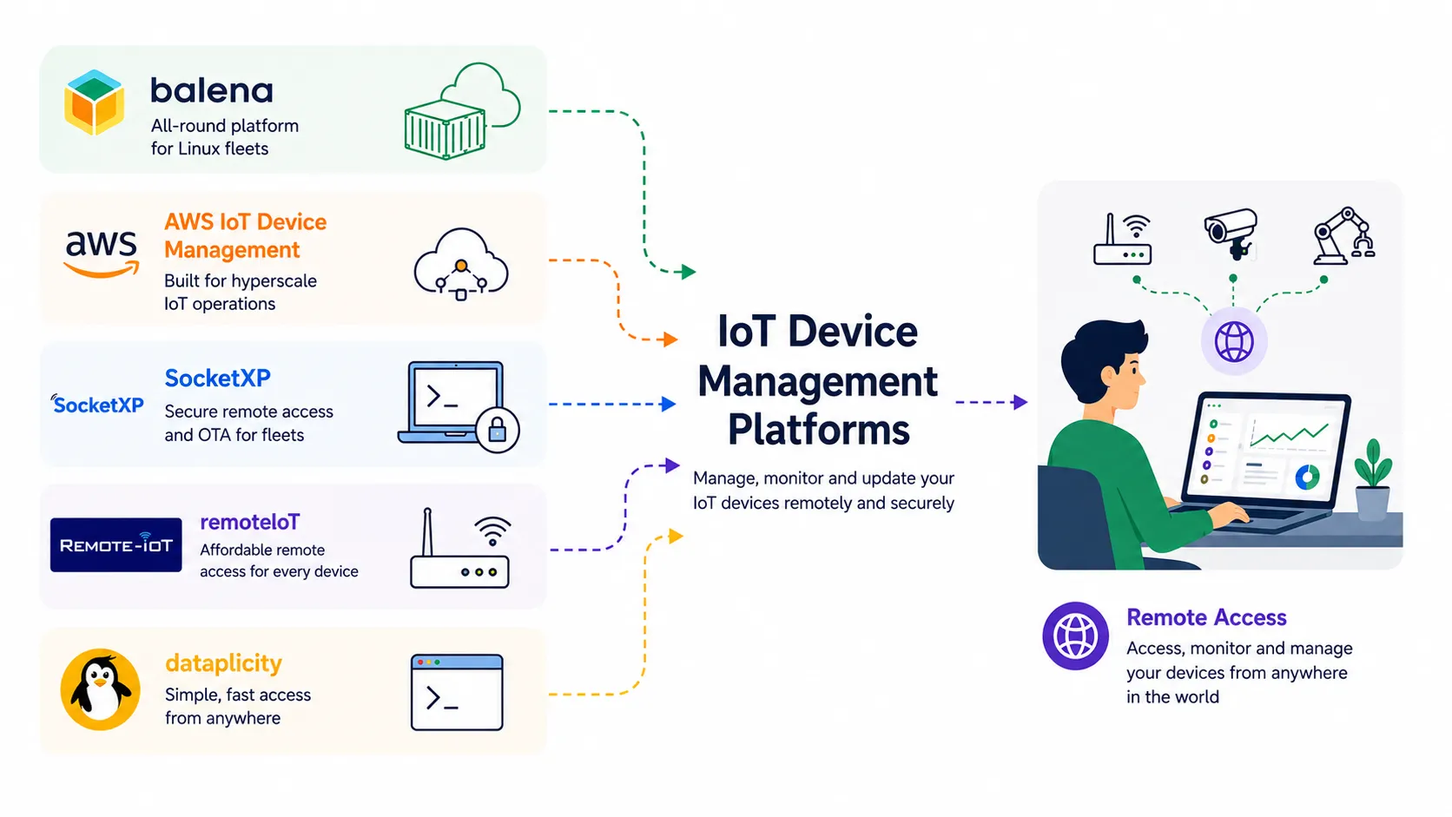
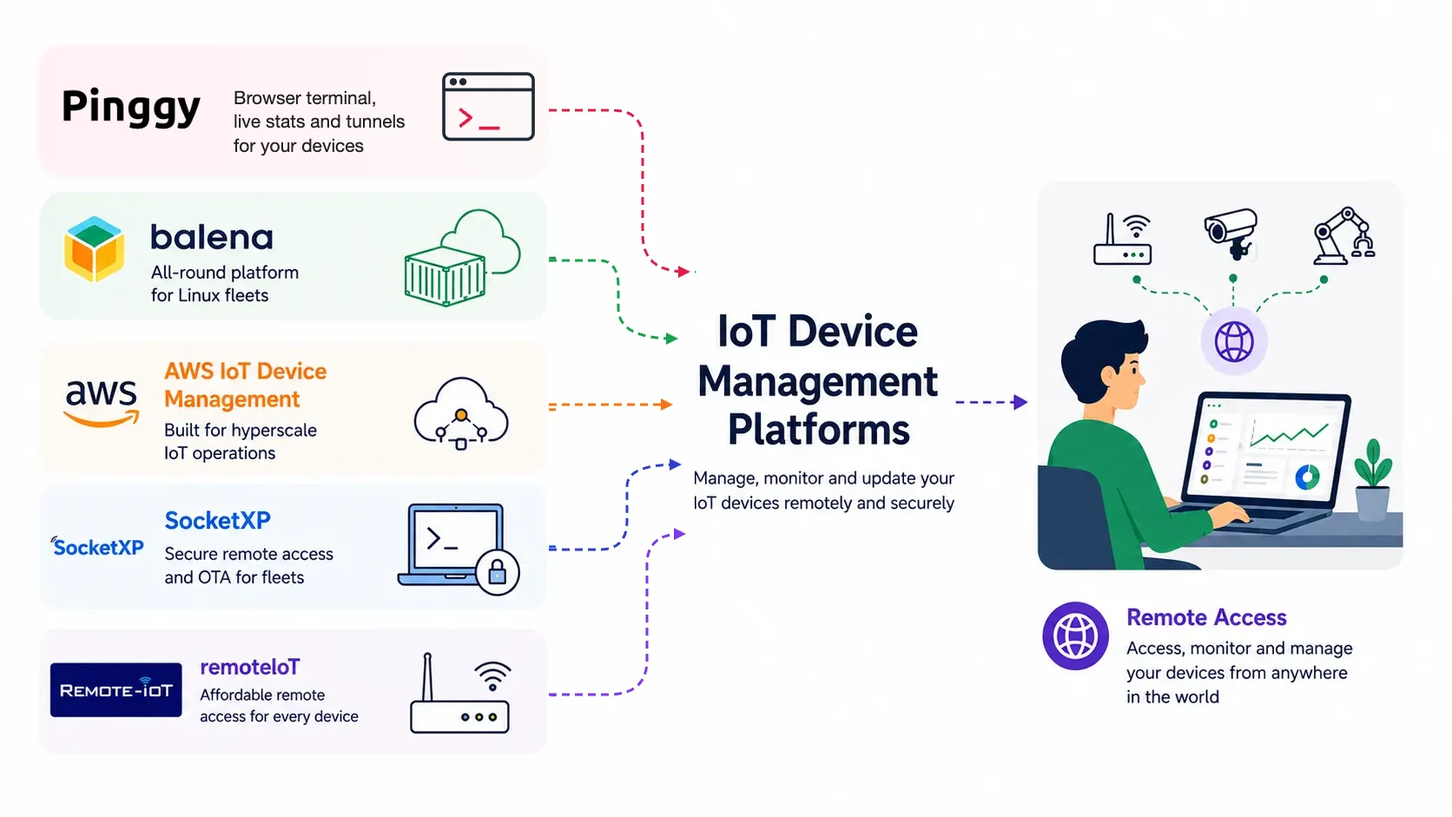
Refactor code structure for improved readability and maintainability

diff --git a/content/blog/best_remote_iot_device_management_software.md b/content/blog/best_remote_iot_device_management_software.md
@@ -1,39 +1,40 @@
 ---
-title: "Best Remote IoT Device Management Software in 2026: 5 Platforms Compared"
-description: "A technical comparison of remote IoT device management software in 2026: balenaCloud, AWS IoT Device Management, SocketXP, RemoteIoT and Dataplicity. Real pricing, agent architecture, NAT traversal, OTA updates and what each one gets wrong."
+title: "Best Remote IoT Device Management Software in 2026: 6 Platforms Compared"
+description: "A technical comparison of remote IoT device management software in 2026: Pinggy Devices, balenaCloud, AWS IoT Device Management, SocketXP, RemoteIoT and Dataplicity. Real pricing, agent architecture, NAT traversal, OTA updates and what each one gets wrong."
 date: 2026-08-13T07:30:00+05:30
-lastmod: 2026-08-24T07:30:00+05:30
+lastmod: 2026-11-11T07:30:00+05:30
 draft: false
 tags: ["IoT", "device management", "remote access", "Raspberry Pi", "edge computing", "OTA updates", "balenaCloud", "AWS IoT", "SocketXP", "RemoteIoT", "Dataplicity", "comparison"]
 categories: ["IoT", "Remote Access", "Comparison"]
 og_image: "images/best_remote_iot_device_management_software/best_remote_iot_device_management_software_banner.webp"
[2 lines of base64/hex data omitted]
 outputs:
   - HTML
   - AMP
 ---
 
-{{< image "best_remote_iot_device_management_software/best_remote_iot_device_management_software_banner.webp" "Best Remote IoT Device Management Software in 2026" >}}
+{{< image "best_remote_iot_device_management_software/best_remote_iot_device_management_software_banner.webp" "Best Remote IoT Device Management Software in 2026: Pinggy, balenaCloud, AWS IoT Device Management, SocketXP and RemoteIoT" >}}
 
 Managing a fleet of IoT devices such as Raspberry Pis and other single-board computers is not easy, especially once they are out in the wild: behind CGNAT, on cellular data, inside someone else's home network. Easy remote access and management is essential once you can no longer just walk over and plug in a keyboard.
 
-That's the gap this guide is about. The same 100 Raspberry Pis cost $20 a month to manage on RemoteIoT and $409 on balenaCloud, and that gap is not a markup, it's two different products: the cheap half is **access** (a shell or VNC session on a device you can't route to), the expensive half is **lifecycle** (a device registry, atomic updates with rollback, fleet-wide config, audit logs). Buying the wrong half is what actually costs money.
+That's the gap this guide is about. The same 100 Raspberry Pis cost $10 a month to manage on Pinggy Devices and $409 on balenaCloud, and that gap is not a markup, it's two different products: the cheap half is **access** (a shell or VNC session on a device you can't route to), the expensive half is **lifecycle** (a device registry, atomic updates with rollback, fleet-wide config, audit logs). Buying the wrong half is what actually costs money.
 
-This guide compares balenaCloud, SocketXP, RemoteIoT, Dataplicity and AWS IoT Device Management on what decides that call: how the agent crosses NAT, whether updates are atomic, and what the bill looks like at real fleet sizes. Every price and feature here came from the vendor's own pages, checked in August 2026.
+This guide compares Pinggy Devices, balenaCloud, SocketXP, RemoteIoT, Dataplicity and AWS IoT Device Management on what decides that call: how the agent crosses NAT, whether updates are atomic, and what the bill looks like at real fleet sizes. Every price and feature here came from the vendor's own pages and docs, checked in August 2026, and for Pinggy Devices on November 12, 2026.
 
 {{% tldr %}}
 
-**Top 5 remote IoT device management platforms in 2026:**
+**Top 6 remote IoT device management platforms in 2026:**
 
-1. **<a href="https://www.balena.io/cloud" target="_blank">balenaCloud</a>** - Containers on balenaOS, delta updates, 100+ boards. Free for 10 devices, then $159/month.
-2. **<a href="https://www.socketxp.com/" target="_blank">SocketXP</a>** - Static agent, mTLS, no inbound ports. $20/month (40 devices) or $99/month (100 devices).
-3. **<a href="https://remoteiot.com/" target="_blank">RemoteIoT</a>** - Cheapest per device. $0.20 to $1.00 per device/month, free for 5 non-commercial.
-4. **<a href="https://www.dataplicity.com/" target="_blank">Dataplicity</a>** - Bare Pi to browser terminal in one command. 1 free device, then $3.00/device/month.
-5. **<a href="https://aws.amazon.com/iot-device-management/" target="_blank">AWS IoT Device Management</a>** - Jobs, fleet indexing, secure tunneling. Pay per use: $0.003/action, $1.00/tunnel.
+1. **[Pinggy Devices](/remote-terminal/)** - Browser terminal, live CPU and memory, and tunnel control over one outbound connection. Free for 1 device, then $2.50 per seat/month (25 devices per seat).
+2. **<a href="https://www.balena.io/cloud" target="_blank">balenaCloud</a>** - Containers on balenaOS, delta updates, 100+ boards. Free for 10 devices, then $159/month.
+3. **<a href="https://www.socketxp.com/" target="_blank">SocketXP</a>** - Static agent, mTLS, no inbound ports. $20/month (40 devices) or $99/month (100 devices).
+4. **<a href="https://remoteiot.com/" target="_blank">RemoteIoT</a>** - Per-device pricing with SSH and VNC. $0.20 to $1.00 per device/month, free for 5 non-commercial.
+5. **<a href="https://www.dataplicity.com/" target="_blank">Dataplicity</a>** - Bare Pi to browser terminal in one command. 1 free device, then $3.00/device/month.
+6. **<a href="https://aws.amazon.com/iot-device-management/" target="_blank">AWS IoT Device Management</a>** - Jobs, fleet indexing, secure tunneling. Pay per use: $0.003/action, $1.00/tunnel.
 
 **Also worth a look:** <a href="https://qbee.io/" target="_blank">qbee.io</a>, <a href="https://thingsboard.io/" target="_blank">ThingsBoard</a>, <a href="https://memfault.com/" target="_blank">Memfault</a>, <a href="https://mender.io/" target="_blank">Mender</a>.
 
-**Short version:** deploying containers, use balenaCloud. Only need a shell, the access tools cost a tenth as much. Huge fleet already on AWS, use AWS IoT.
+**Short version:** need a shell, live metrics and tunnels on devices behind NAT, use Pinggy Devices. Deploying containers, use balenaCloud. Huge fleet already on AWS, use AWS IoT.
 
 {{% /tldr %}}
 
@@ -66,6 +67,13 @@ One more thing worth weighing before you standardize on anything: Google retired
 </tr>
 </thead>
 <tbody>
+<tr style="background:#e8f5e9;">
+  <td style="border:1px solid #ddd;padding:0.5em;"><strong>Pinggy Devices</strong></td>
+  <td style="border:1px solid #ddd;padding:0.5em;">CLI agent, one outbound connection, browser terminal</td>
+  <td style="border:1px solid #ddd;padding:0.5em;">No</td>
+  <td style="border:1px solid #ddd;padding:0.5em;">1 device, 1 shell</td>
+  <td style="border:1px solid #ddd;padding:0.5em;">$2.50/seat/mo (25 devices), billed annually</td>
+</tr>
 <tr style="background:#e8f5e9;">
   <td style="border:1px solid #ddd;padding:0.5em;"><strong>balenaCloud</strong></td>
   <td style="border:1px solid #ddd;padding:0.5em;">Containers on balenaOS</td>
@@ -104,9 +112,64 @@ One more thing worth weighing before you standardize on anything: Google retired
 </tbody>
 </table>
 
-## The 5 best remote IoT device management platforms in 2026
+## The 6 best remote IoT device management platforms in 2026
 
-### 1. balenaCloud - best all-round for containerized Linux fleets
+### 1. Pinggy Devices - best for a browser shell, live metrics and tunnels on devices behind NAT
+
+{{< image "best_remote_iot_device_management_software/pinggy_devices.webp" "Pinggy Instant Remote Terminals page with the Linux install command curl -fsSL https://pinggy.io/install.sh | sh, noting it needs no sudo and is free for 1 device" >}}
+
+[Pinggy Devices](/docs/devices/) turns the Pinggy CLI into a device agent. You run one command on the device, it signs in, and from then on the agent holds **one outbound connection** to the Pinggy dashboard. Everything else rides on that connection: a terminal in your browser, live CPU and memory, the device's tunnels and an activity log. The device accepts no inbound connection and needs no public IP or SSH server, so a Pi behind a home router, CGNAT or a cellular modem shows up the same way as a server in a rack. This is Pinggy's own blog, so weigh the ranking with that in mind; every limit below comes from teh docs, the pricing page or the CLI source.
+
+Installation is one line on the device:
+
+```bash
+curl -fsSL https://pinggy.io/install.sh | sh
+```
+
+The script needs no `sudo`, installs the CLI to `~/.pinggy/bin`, signs the device in with your email and a 6-digit code (a new email gets a free account) and starts the agent in the background. Typing an email on every unit doesn't scale, so the dashboard also has a token route: **Add device** shows a command with that device's token in it.
+
+{{< image "run_claude_code_remotely_from_any_browser/pinggy_install_script_email_sign_in_terminal.webp" "Terminal running the Pinggy install script: it installs the CLI, asks for an email and a 6-digit code, signs the machine in and prints a dashboard link with a QR code" >}}
+
+*Screenshot: the install script on CLI 0.6.3, where the agent stayed in the terminal; from 0.6.4 it starts in the background. Email, code, link, IDs and the QR code are placeholders.*
+
+```bash
+curl -fsSL https://pinggy.io/install.sh | DEVICE_AGENT_TOKEN=<TOKEN> sh
+```
+
+It asks for no email, no code and no keyboard, so it works in a script, a CI job or a `docker run` without `-t`. The token reaches the CLI in an environment variable, never on a command line, and the CLI removes the variable before it starts anything else. One machine holds one device credential, and the dashboard refuses a second agent using the same one, so a fleet means one device entry and one token per unit. The docs describe no bulk enrolment and no per-device certificates, which matters if you provision thousands of units on a production line.
+
+Surviving a reboot is a seperate step. Since CLI 0.6.5 (November 10, 2026), `pinggy daemon service-install` registers the Pinggy daemon as a systemd user service on Linux, a launchd agent on macOS or a scheduled task on Windows, and the device agent starts with the daemon. On Linux it also runs `loginctl enable-linger` for your user, so the service starts at boot with nobody logged in, which is how most headless Pis run. If that call needs a password it can't ask for, the CLI prints the `loginctl enable-linger <user>` command to run yourself. Without the service, the agent stops at a reboot and `pinggy device connect` brings it back.
+
+The Linux builds are glibc binaries for x64 and arm64, and the installer stops with "unsupported CPU" on anything else. That covers a Pi 3, 4, 5 or Zero 2 W running 64-bit Raspberry Pi OS and most ARM64 gateways on a glibc distro, but not 32-bit Raspberry Pi OS or an original Pi Zero. On Alpine and other musl images, install it with `npm install -g pinggy` instead.
+
+Each device gets four tabs in the dashboard:
+
+- **Overview** shows the hostname, OS, kernel, CPU model and cores, total memory and agent version, next to live CPU, memory, load average and uptime.
+- **Terminal** opens a shell on the device as the user who runs the agent. Closing the browser tab leaves the shell running and redraws the screen when you come back. A shell ends after 30 minutes with no activity or after 8 hours.
+- **Tunnels** lists the tunnels running on the device and the configs saved there with `pinggy config save`. You can start, stop, restart or edit them, or start a new one from a config defined in the dashboard, which is how you reach a Node-RED editor or a camera's web UI on the device.
+- **Activity** lists the device's events with source IP addresses.
+
+{{< image "run_opencode_remotely_from_any_browser/pinggy_device_overview_dark.webp" "Pinggy dashboard device Overview tab in the dark theme, showing the device online, system details including agent version 0.6.4, and live CPU, memory, load average and uptime" >}}
+
+*Screenshot: dashboard.pinggy.io, November 2026. The hostname is a placeholder.*
+
+On security, the device token is stored in `~/.config/pinggy/device.json`, readable only by its user. The agent never logs what you type, and the copy of a shell's screen used to redraw a reopened tab lives in memory only. To cut a device off, delete it or rotate its token in the dashboard; `pinggy device remove` only forgets the token on the device. Anyone signed in to your Pinggy account can open a shell on every device as the user running the agent, so turn on 2-factor authentication and run the agent as an unprivileged user rather than root.
+
+Pricing per the {{< link href="/#prices" newtab=false >}}pricing page{{< /link >}} and the docs on November 12, 2026: **Free** covers 1 device with 1 shell. **Pro** is **$2.50 per seat per month billed annually** or $3.00 billed monthly, and each seat adds 25 devices and 25 open shells, with at most 10 shells on any one device, so 3 seats cover 75 devices. A single Pro seat starts with a 7-day free trial, and Enterprise is custom priced.
+
+What it does not do matters as much. There are **no OTA updates and no rollback**, no fleet-wide configuration or batch jobs (you act on one device at a time from its page), and no alerting in the docs. It is also new: Pinggy Devices shipped in CLI v0.6.2 on November 2, 2026, and the CLI has had five releases since. If you ship firmware, pair it with Mender or another updater from this list.
+
+**Key specs**
+
+- **Device model:** Pinggy CLI as a background agent; glibc binaries for Linux x64 and arm64, macOS and Windows, npm on musl
+- **OTA:** none
+- **Remote access:** browser terminal, plus Pinggy tunnels started, stopped and edited from the dashboard
+- **Monitoring:** live CPU, memory, load and uptime; activity log with source IPs
+- **Provisioning:** email sign-in, or a per-device token with no keyboard; start at boot with `pinggy daemon service-install`
+- **Pricing:** free for 1 device; $2.50 per seat/month billed annually ($3.00 monthly), 25 devices per seat
+- **Weak spot:** no OTA or fleet-wide jobs, no 32-bit ARM builds, and a young product
+
+### 2. balenaCloud - best all-round for containerized Linux fleets
 
 {{< image "best_remote_iot_device_management_software/balenacloud.webp" "balenaCloud container-based IoT fleet management platform" >}}
 
@@ -129,7 +192,7 @@ The catch is cost. The free tier is 10 devices and one user. **Prototype** is $1
 - **Pricing:** free 10 devices; $159/mo (30), $329/mo (60), $1,439/mo (110); extra devices $2 to $3
 - **Weak spot:** price per device, and the container model is a real architectural commitment
 
-### 2. SocketXP - best remote access plus OTA for a mid-size fleet
+### 3. SocketXP - best remote access plus OTA for a mid-size fleet
 
 {{< image "best_remote_iot_device_management_software/socketxp.webp" "SocketXP IoT remote access and device management dashboard" >}}
 
@@ -171,11 +234,11 @@ Watch the data caps. Plans allocate between 100MB and 500MB per device per month
 - **Pricing:** Small Business $20/$39/$79 per month for 40 devices; Enterprise $99/$299/$499/$799 per month for 100 devices; extras $0.30 to $1.99
 - **Weak spot:** per-device data caps of 100MB to 500MB, monitoring and OTA gated behind the $499 Standard plan, no built-in data visualization
 
-### 3. RemoteIoT - cheapest per device for SSH and VNC
+### 4. RemoteIoT - low per-device pricing for SSH and VNC
 
 {{< image "best_remote_iot_device_management_software/remoteiot.webp" "RemoteIoT secure remote IoT access and management platform" >}}
 
-{{< link href="https://remoteiot.com/" >}}RemoteIoT{{< /link >}} is the price leader by a wide margin and is narrower in scope than everything above. It gives you remote SSH and VNC to devices behind firewalls, a browser-based web console, batch jobs across groups of devices, file upload and application update to many devices at once, centralized SSH key management, and monitoring of CPU, memory and disk.
+{{< link href="https://remoteiot.com/" >}}RemoteIoT{{< /link >}} is one of the cheapest options per device and is narrower in scope than balenaCloud or SocketXP. It gives you remote SSH and VNC to devices behind firewalls, a browser-based web console, batch jobs across groups of devices, file upload and application update to many devices at once, centralized SSH key management, and monitoring of CPU, memory and disk.
 
 The setup is a single command with your account's setup key baked in, taken from their documentation:
 
@@ -203,7 +266,7 @@ At 100 devices, Enterprise costs $100/month for capabilities that overlap most o
 - **Pricing:** free for 5 non-commercial devices; $0.20, $0.50, $1.00 and $1.20 per device per month
 - **Weak spot:** JVM dependency, and it is an access tool rather than a full lifecycle platform
 
-### 4. Dataplicity - simplest path from a bare Pi to a browser terminal
+### 5. Dataplicity - simplest path from a bare Pi to a browser terminal
 
 {{< image "best_remote_iot_device_management_software/dataplicity.webp" "Dataplicity remote device management for Linux IoT fleets" >}}
 
@@ -219,7 +282,7 @@ What is less widely known is that Dataplicity is no longer only the hobbyist too
 
 Pricing: **Free** is one device with the remote terminal, Wormhole, port forwarding on standard ports, one dashboard, one display, one monitor, one scheduled task and 24-hour log retention. **Standard** starts at **$3.00 per device per month with a 3 device minimum**, bundling 25 monitors and 25 scheduled tasks with 7-day log retention, still restricted to standard ports. **Business** keeps the $3.00 per device rate through the 1 to 50 device band, steps down on larger bands, and includes 50 monitors, 50 scheduled tasks, 90-day log retention, custom ports, custom Wormhole URLs, alerts, the fleet map, fleet jobs, incidents, on-call escalations, log analytics and the SSO/SCIM security features. Custom quotes are available for larger deployments.
 
-The honest tradeoff: at $3.00 per device Dataplicity is the most expensive per-unit option here. A 100 device fleet lands around $300/month against $100 on RemoteIoT Enterprise, $99 on SocketXP Core and $20 on RemoteIoT Business. You are paying for polish and for the alerting and incident layer. There is also no atomic OTA story, so firmware-heavy products should look elsewhere, and the Python agent means Python has to exist on the image.
+The honest tradeoff: at $3.00 per device Dataplicity is the most expensive per-unit option here. A 100 device fleet lands around $300/month against $100 on RemoteIoT Enterprise, $99 on SocketXP Core, $20 on RemoteIoT Business and $10 on Pinggy Devices Pro. You are paying for polish and for the alerting and incident layer. There is also no atomic OTA story, so firmware-heavy products should look elsewhere, and the Python agent means Python has to exist on the image.
 
 **Key specs**
 
@@ -230,7 +293,7 @@ The honest tradeoff: at $3.00 per device Dataplicity is the most expensive per-u
 - **Pricing:** 1 device free; $3.00/device/month from 3 devices; volume bands and custom quotes above 50
 - **Weak spot:** highest per-device price here, no atomic OTA, Python runtime required on device
 
-### 5. AWS IoT Device Management - best at hyperscale
+### 6. AWS IoT Device Management - best at hyperscale
 
 {{< image "best_remote_iot_device_management_software/aws_iot_device_management.webp" "AWS IoT Device Management product page" >}}
 
@@ -268,6 +331,12 @@ Headline prices are not comparable across these vendors, so here is the same fle
 </tr>
 </thead>
 <tbody>
+<tr style="background:#e8f5e9;">
+  <td style="border:1px solid #ddd;padding:0.5em;"><strong>Pinggy Devices</strong></td>
+  <td style="border:1px solid #ddd;padding:0.5em;">Pro, 4 seats</td>
+  <td style="border:1px solid #ddd;padding:0.5em;"><strong>$10</strong></td>
+  <td style="border:1px solid #ddd;padding:0.5em;">4 x $2.50 per seat billed annually ($12 billed monthly); each seat covers 25 devices and 1 engineer</td>
+</tr>
 <tr style="background:#e8f5e9;">
   <td style="border:1px solid #ddd;padding:0.5em;"><strong>RemoteIoT</strong></td>
   <td style="border:1px solid #ddd;padding:0.5em;">Business</td>
@@ -309,7 +378,7 @@ Headline prices are not comparable across these vendors, so here is the same fle
 
 The AWS row is the one to read carefully, because it is the only usage-based line and it moves fast. One tunnel per device per month is a light support load. Triple it and AWS becomes the most expensive option in the table, while every per-device plan stays flat. Conversely, if your devices are mostly self-sufficient and you rarely open a session, AWS can undercut everything here. Model your own usage before trusting either intuition.
 
-Also worth noting: balenaCloud's price buys a genuine build-and-deploy pipeline, not just access. Comparing it directly against RemoteIoT is comparing a CI/CD and OTA system against a remote shell. The right comparison for balena is qbee.io or Mender.
+Pinggy's $10 buys a browser shell, live metrics and tunnel control on every device, not OTA, so compare it with RemoteIoT and SocketXP Core rather than with balena. Also worth noting: balenaCloud's price buys a genuine build-and-deploy pipeline, not just access. Comparing it directly against RemoteIoT is comparing a CI/CD and OTA system against a remote shell. The right comparison for balena is qbee.io or Mender.
 
 ## Also worth a look
 
@@ -337,14 +406,15 @@ Also worth noting: balenaCloud's price buys a genuine build-and-deploy pipeline,
 
 An IoT device almost never has an inbound-reachable address. It sits behind a home router doing NAT, a corporate firewall that drops unsolicited inbound traffic, or a carrier doing CGNAT. It has to connect to you, not the other way around.
 
-Vendors solve this three ways: an **outbound tunnel to a broker**, where the agent holds a long-lived TLS or WebSocket connection to a cloud relay (SocketXP, RemoteIoT, Dataplicity and AWS secure tunneling); an **outbound VPN**, where the device joins an overlay network on boot (balenaCloud); and **HTTPS-only on port 443**, the same idea constrained to the one port every egress policy allows (qbee.io). The fourth option is the one you can build yourself: an **SSH reverse tunnel**, which is what `ssh -R` has done since the 1990s. We cover that route separately in {{< link href="/blog/access_iot_devices_from_anywhere/" newtab=false >}}Access IoT Devices from Anywhere{{< /link >}}, {{< link href="/blog/access_raspberry_pi_remotely_to_control_iot_devices/" newtab=false >}}Access Raspberry Pi Remotely to Control IoT Devices{{< /link >}}, {{< link href="/blog/ssh_reverse_tunnelling/" newtab=false >}}SSH Reverse Tunneling{{< /link >}} and {{< link href="/blog/vpn_replacement_for_secure_remote_access/" newtab=false >}}VPN Replacement for Secure Remote Access{{< /link >}}, plus {{< link href="/blog/iot_remote_desktop_raspberry_pi/" newtab=false >}}Remote Desktop for Raspberry Pi{{< /link >}} and {{< link href="/blog/remotely_connect_to_iol__using_vnc/" newtab=false >}}Remotely Connect to IoT Devices Using VNC{{< /link >}} for GUI access.
+Vendors solve this three ways: an **outbound tunnel to a broker**, where the agent holds a long-lived TLS or WebSocket connection to a cloud relay (Pinggy Devices, SocketXP, RemoteIoT, Dataplicity and AWS secure tunneling); an **outbound VPN**, where the device joins an overlay network on boot (balenaCloud); and **HTTPS-only on port 443**, the same idea constrained to the one port every egress policy allows (qbee.io). The fourth option is the one you can build yourself: an **SSH reverse tunnel**, which is what `ssh -R` has done since the 1990s. We cover that route separately in {{< link href="/blog/access_iot_devices_from_anywhere/" newtab=false >}}Access IoT Devices from Anywhere{{< /link >}}, {{< link href="/blog/access_raspberry_pi_remotely_to_control_iot_devices/" newtab=false >}}Access Raspberry Pi Remotely to Control IoT Devices{{< /link >}}, {{< link href="/blog/ssh_reverse_tunnelling/" newtab=false >}}SSH Reverse Tunneling{{< /link >}} and {{< link href="/blog/vpn_replacement_for_secure_remote_access/" newtab=false >}}VPN Replacement for Secure Remote Access{{< /link >}}, plus {{< link href="/blog/iot_remote_desktop_raspberry_pi/" newtab=false >}}Remote Desktop for Raspberry Pi{{< /link >}} and {{< link href="/blog/remotely_connect_to_iol__using_vnc/" newtab=false >}}Remotely Connect to IoT Devices Using VNC{{< /link >}} for GUI access.
 
 ## How to choose
 
+- **Need a shell, live CPU and memory, and tunnels on Pis or Linux boxes behind NAT, for the least money?** Pinggy Devices.
 - **Shipping application code to Linux devices?** balenaCloud. Containers, delta updates and host OS management in one pipeline.
 - **Shipping firmware that must never brick?** Mender, or qbee.io if you also want config management and CVE scanning.
 - **Hundreds of thousands of devices, already on AWS?** AWS IoT Device Management. Model the secure tunneling bill early.
-- **Just need a shell on devices behind firewalls?** SocketXP for a static agent plus OTA, RemoteIoT if price per device dominates.
+- **Need SSH and VNC plus OTA or SD card health on devices behind firewalls?** SocketXP for a static agent with OTA, RemoteIoT for SD card wear monitoring on Pis.
 - **Small fleet, want alerting and on-call included?** Dataplicity.
 - **Want to own the stack?** ThingsBoard for data, Mender for updates, SSH reverse tunnels for access.
 
@@ -360,4 +430,4 @@ The ability to switch platforms also depends on whether your team has the engine
 
 ## Conclusion
 
-There is no single best remote IoT device management software in 2026, but the split is clear. **balenaCloud** is the most complete platform for containerized Linux fleets. **SocketXP**, **RemoteIoT** and **Dataplicity** are access-first tools that cost far less because they solve a smaller problem, which for many teams is the whole requirement. **AWS IoT Device Management** wins at scale inside an AWS estate, if you build the device side yourself. Price your shortlist at the fleet size you expect in twelve months, not today: the same 100 devices cost $20 on RemoteIoT Business and $409 on balenaCloud Pilot. And keep a plain SSH reverse tunnel in your back pocket. It costs nothing, it works when the dashboard does not, and it has outlasted several IoT platforms already.
+There is no single best remote IoT device management software in 2026, but the split is clear. **Pinggy Devices** is the best place to start if what you need is a shell, live metrics and tunnels on devices behind NAT: one install command, one outbound connection, and $10 a month for 100 devices. **balenaCloud** is the most complete platform for containerized Linux fleets. **SocketXP**, **RemoteIoT** and **Dataplicity** are access-first tools that cost far less because they solve a smaller problem, which for many teams is the whole requirement. **AWS IoT Device Management** wins at scale inside an AWS estate, if you build the device side yourself. Price your shortlist at the fleet size you expect in twelve months, not today: the same 100 devices cost $10 on Pinggy Devices and $409 on balenaCloud Pilot. And keep a plain SSH reverse tunnel in your back pocket. It costs nothing, it works when the dashboard does not, and it has outlasted several IoT platforms already.
